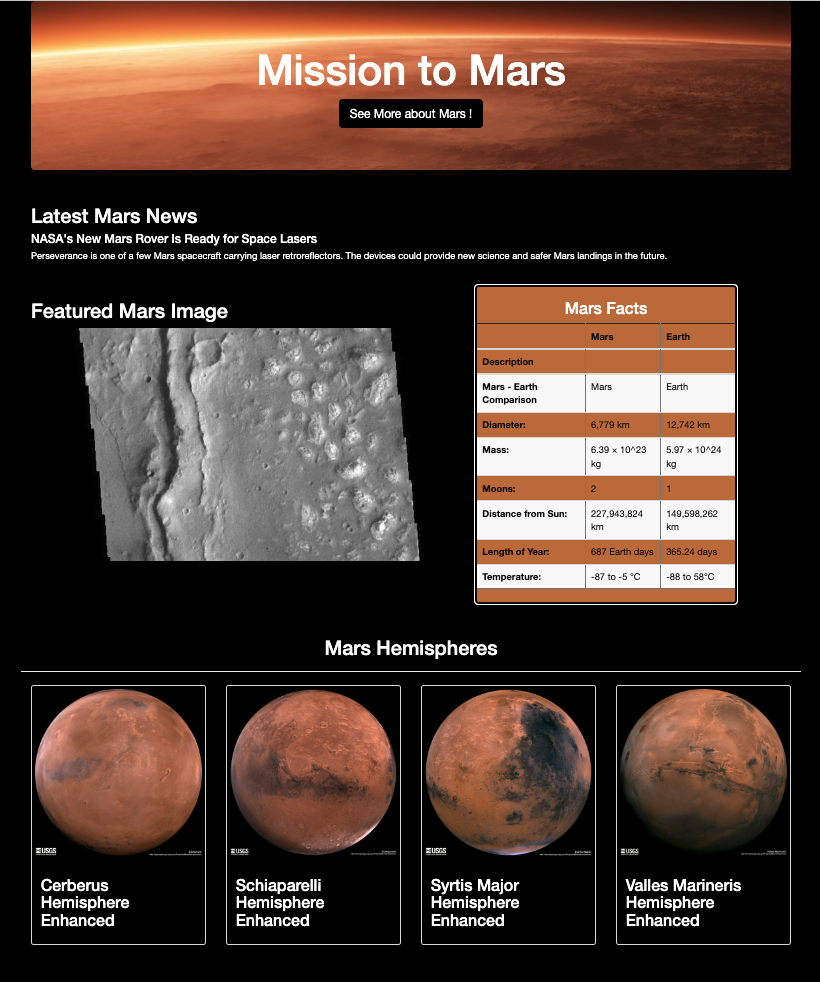
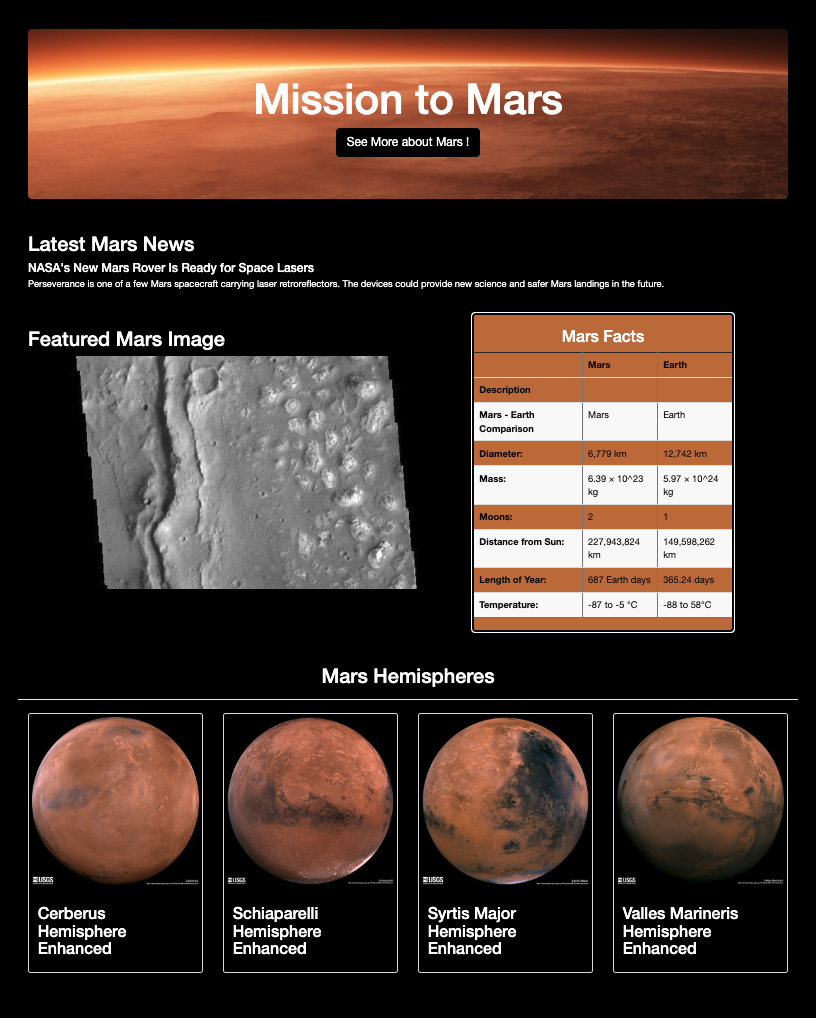
update website image

diff --git a/templates/index.html b/templates/index.html
@@ -13,7 +13,7 @@
   <body style= background-color:#000000>
     <div class="container">
       <!-- Add Jumbotron to Header -->
-      <div class="jumbotron text-center" style="background-size: cover; background-position: center; background-image:url('https://inteng-storage.s3.amazonaws.com/img/iea/nZwXdgaJwv/sizes/mars-surface-dust_resize_md.jpg')" >
+      <div class="jumbotron text-center" style="margin-top:50px; background-size: cover; background-position: center; background-image:url('https://inteng-storage.s3.amazonaws.com/img/iea/nZwXdgaJwv/sizes/mars-surface-dust_resize_md.jpg')" >
         <h1 style="color: white">Mission to Mars</h1>
         <!-- Add a button to activate scraping script -->
         <p> <a class="btn btn-primary btn-lg" href="/scrape" role="button" style= "border: 0px; background-color:#000000">See More about Mars !</a></p>
